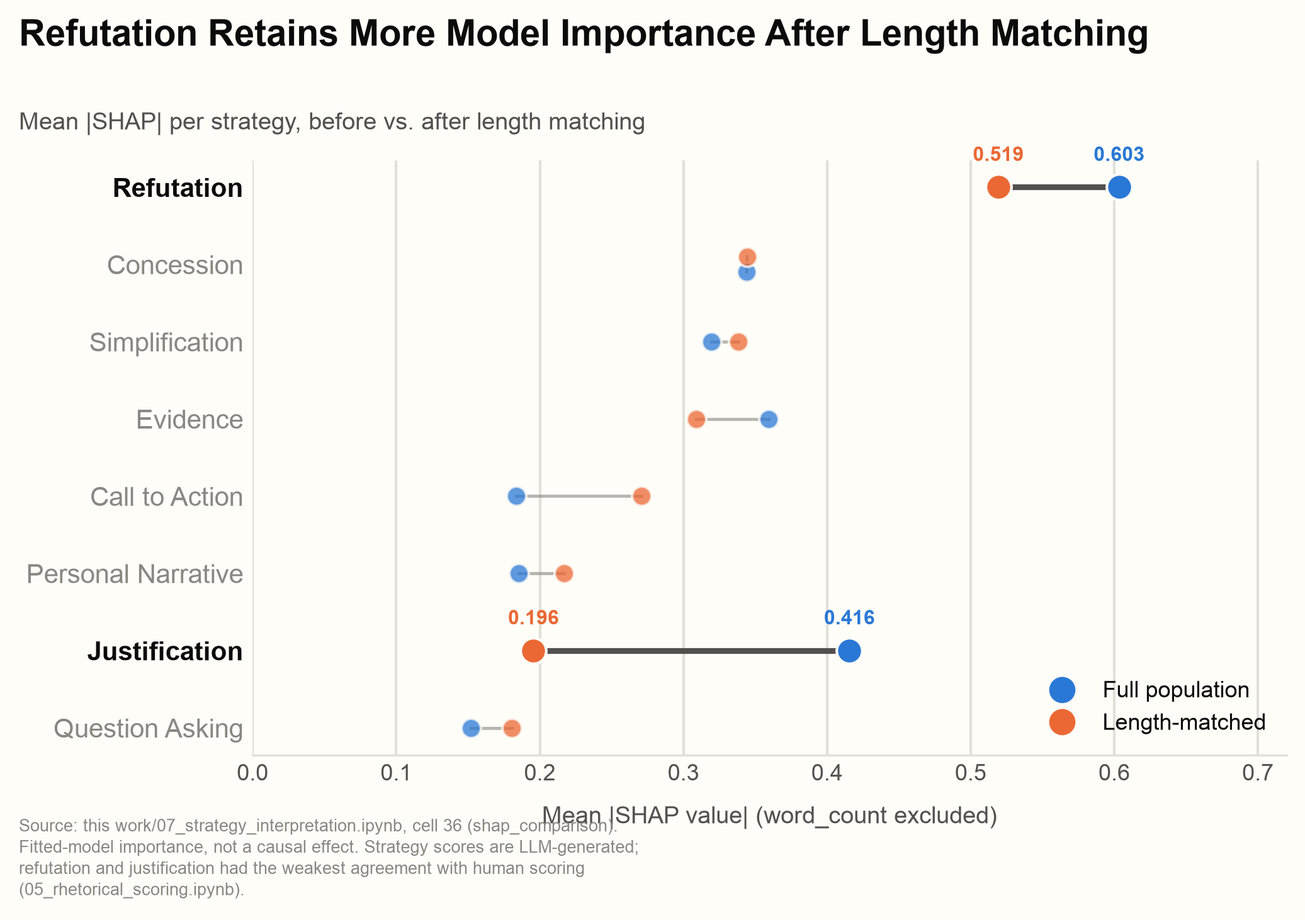
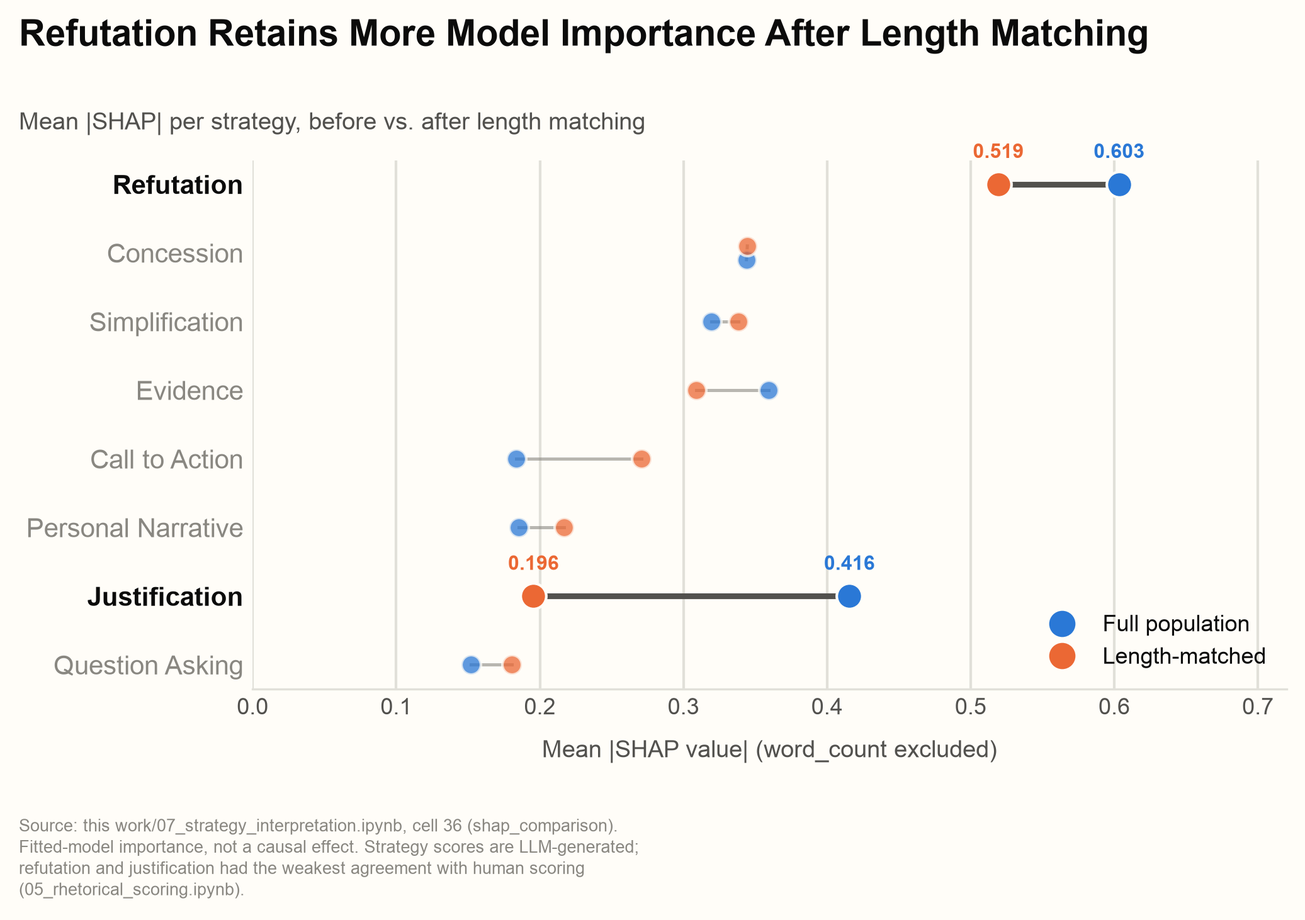
Fix §2.9 WA external-validation methods: construction vs. usage, depth filter, pair/class-balance accuracy
Splits the WA comparison table into corpus-construction facts (Table N) vs.
this project's own analysis choices (Table N+1); corrects the home dataset's
negative-example selection (leaf comments only, not every reply) and its
actually-scored population (2,753/400, not the full 3,971); fixes the WA
heldout pairwise-accuracy count (807 native heldout pairs, 805 after two
pairs lost both sides to unparseable-response drops) and the WA class-balance
explanation (reused losing comments under deduplication, not split
granularity or the drops); adds the §2.9 description of reusing the
nine-column compact model and repeating the §2.8 SHAP/Mann-Whitney
comparison on WA; removes references to the uncommitted wa_quick_experiments
notebook; and removes defensive "you'd think X, but actually Y" framing from
the WA training/evaluation paragraph.

diff --git a/degree_completion/figures/make_figures.py b/degree_completion/figures/make_figures.py
@@ -508,7 +508,10 @@ def figure5():
         _footer(fig, "Fitted-model importance, not a causal effect. Source: 07_strategy_interpretation.ipynb, cell 36.")
 
     top = 0.80 if _cfg()["show_title"] else 0.95
-    fig.subplots_adjust(left=0.22, right=0.95, top=top, bottom=0.17)
+    # Report mode's 4-line verbose footer needs more clearance than presentation's 1-line
+    # trimmed footer, or the x-axis label overlaps the footer's first line.
+    bottom = 0.24 if _cfg()["verbose_footer"] else 0.17
+    fig.subplots_adjust(left=0.22, right=0.95, top=top, bottom=bottom)
     _save(fig, "figure5_refutation_vs_justification_shap")
     plt.close(fig)
 

diff --git a/degree_completion/report_draft/02_METHODS.md b/degree_completion/report_draft/02_METHODS.md
@@ -33,15 +33,24 @@ with a readability measure computed later in the pipeline. This left a final dat
 comments, of which 641 were delta-awarded (16.1%) and 3,330 were not (83.9%).
 
 The target label, `is_convincing`, is derived directly from whether a comment received a delta
-from the original poster. Non-convincing (negative) examples are simply the other replies already
-present in the same threads; no additional filtering or matching was applied to select which
-replies would serve as negative examples. This is a deliberate point of contrast with the external
-validation corpus described in §2.9, whose negative examples are instead selected to be topically
-similar to the corresponding positive example. One structural property of the resulting dataset
-is worth noting here because it bears on later feature-engineering choices: thread size is
-correlated with a thread's apparent convincing rate, since a thread typically yields at most a
-small, roughly fixed number of deltas while the number of non-convincing replies scales with how
-much the thread branches. This is relevant to any analysis that aggregates at the level of the
+from the original poster. Not every comment in a thread becomes a row, and the two classes are
+selected differently. A delta-awarded comment becomes a positive row regardless of where it sits
+in the thread; any of its own descendant replies are discarded. A non-convincing comment becomes a
+negative row only if it is a *leaf* — it has no replies of its own — in the thread tree; a
+non-convincing comment that has further replies underneath it does not itself become a row, only
+its descendant leaves do. (The one exception is a leaf that is itself the parent of a delta-awarded
+comment removed by the rule above: it is excluded rather than added as a negative row, since it was
+never evaluated as a final, unanswered reply.) No topical filtering or matching was applied to
+select which leaf comments would serve as negative examples among those eligible. This is a
+deliberate point of contrast with the external validation corpus described in §2.9, whose negative
+examples are instead selected to be topically similar to the corresponding positive example. One
+structural property of the resulting dataset is worth noting here because it bears on later
+feature-engineering choices: because negative examples are drawn only from leaves while a thread
+typically yields at most a small, roughly fixed number of deltas regardless of its size, the number
+of negative rows per thread scales with how much the thread branches while the number of positive
+rows barely does — so thread size ends up structurally correlated with a thread's apparent
+convincing rate, busier threads showing a lower rate almost by construction, independent of
+anything about persuasion. This is relevant to any analysis that aggregates at the level of the
 original post, not the individual comment, and is revisited where relevant in §2.2.
 
 [FIGURE: `figures/report/figure8_pipeline_diagram.png` — **Figure N.** The project's pipeline as
@@ -475,14 +484,12 @@ claim — that rhetorical-strategy scores carry real signal beyond comment lengt
 proxy for it — mirroring the same test §2.5 applied to `word_count`'s own contribution. It was
 checked using a length-matched sample built specifically for this 2,753-comment population: the
 same decile-bin matching procedure used for `04.3`'s strict decile-bin match (§2.5) was independently re-run
-here, yielding 1,235 comments — coincidentally the same size
-as §2.5's own strict-match sample, despite being built from a different, smaller base population;
-the two samples must not be confused or their figures combined. On this length-matched sample, the
+here, yielding 1,235 comments. On this length-matched sample, the
 strategy-score gain drops from 0.0664 to 0.0557 PR-AUC, an 84% retention — far less erosion than
 `word_count`'s own lift or the engineered pipeline's own lift, both of which collapsed to about 18%
 of their full-dataset values under `04.3`'s strict matching (§2.5). This indicates the
-strategy-score signal is not primarily a proxy for comment length, unlike most other signal
-examined in this project.
+strategy-score signal is not primarily a proxy for comment length, unlike previous signal
+examined.
 
 [FIGURE: `figures/report/figure3_strategy_gain_length_matching.png` — **Figure N.** The
 strategy-score PR-AUC gain reported above, recomputed on the length-matched sample within the
@@ -514,9 +521,9 @@ the outcome. Neither is a causal-effect estimate — both describe observed asso
 reliance, not a demonstrated causal mechanism — and the two measures are not guaranteed to agree
 with one another, nor are they intended as interchangeable. In this project, these two measures
 produce a genuine point of disagreement about which single strategy is most important even on the
-home dataset's full population; this is reported directly, as an aspect of the interpretive findings
-to be resolved (or left open) in Results and Discussion, not papered over by relying on only
-one of the two measures.
+home dataset's full population; this is reported directly, as a genuine methodological tension the
+Discussion chapter treats as unresolved, not papered over by relying on only one of the two
+measures.
 
 **Table N.** Both interpretive measures, full population and length-matched sample, for all eight
 strategies (`word_count`'s own SHAP value — 1.0245 full population, 0.8402 matched — is omitted
@@ -538,15 +545,11 @@ significance.
 One row is worth flagging, not leaving implicit: `personal_narrative`'s rank-biserial effect
 is not significant on the full population but *is* significant, and negative, on the length-matched
 sample (r = −0.0859) — the only strategy whose significance status and sign both shift between the
-two populations. This is reported here as a fact about the data, not interpreted; the interpretive
-discussion belongs in Results/Discussion, not Methods.
+two populations.
 
 [FIGURE: `figures/report/figure5_refutation_vs_justification_shap.png` — **Figure N.** Mean |SHAP|
 value for each of the eight rhetorical strategies, full population versus length-matched sample,
-for the nine-column selected model (`07_strategy_interpretation.ipynb`). A simplified ranked
-comparison, not the raw beeswarm plots, per the legibility concern noted above; `word_count` is
-excluded from the chart, since the comparison is among the eight strategies themselves, not
-against the length confound already established in §2.4.]
+for the nine-column selected model (`07_strategy_interpretation.ipynb`).]
 
 ## 2.9 External Validation on Winning Arguments
 
@@ -560,7 +563,10 @@ substantively comparable to the corresponding winning reply, matched by Jaccard 
 the same thread, whereas the home dataset's non-convincing comments are simply the other,
 unfiltered replies already present in the same threads (§2.1). This difference in how negative
 examples are constructed is a methodologically important point of contrast between the two
-datasets, revisited in the Results and Discussion chapters.
+datasets, revisited in the Results and Discussion chapters. The two datasets also differ in which
+replies are eligible at all: WA's winner/loser pairs are restricted to direct top-level replies to
+the original post (exactly one level below it), whereas the home dataset includes every reply in a
+thread regardless of its nesting depth.
 
 A total of 8,106 comments, spanning 3,051 original posts, were collected and scored on the same
 eight-strategy rubric, using the same scoring infrastructure described in §2.6. Ten comments were
@@ -569,19 +575,27 @@ These were evaluated on WA's own native training and held-out partitions — the
 corpus is distributed with, and the same partition on which its own published benchmark figures are
 computed — comprising 6,584 comments for training and 1,512 for evaluation.
 
-The training and evaluation protocol is stated precisely here because an imprecise description
-would misrepresent what was actually done. The model architecture and training configuration
-already selected on the home dataset (`RobustScaler`, SMOTE oversampling, and XGBoost) were reused
-unchanged on WA, with no new architecture selection, hyperparameter search, or feature-set tuning
-performed using WA data. However, a new model instance was then fit on WA's own native training
-split and evaluated on WA's own native held-out split. This procedure — reusing a previously
-selected modeling configuration, but fitting new model parameters on the new dataset's own training
-data — is a transfer of the modeling procedure, not a zero-shot evaluation of the model originally
-fitted on the home dataset, and it should not be described as zero-shot transfer or as applying a
-frozen model to WA. A separate, exploratory notebook does evaluate genuine zero-shot transfer (the
-home-dataset-trained model applied directly to WA with no refitting at all); that analysis,
-together with two other exploratory checks in the same notebook, is excluded from the scope of this
-report.
+The model architecture and training configuration already selected on the home dataset
+(`RobustScaler`, SMOTE oversampling, and XGBoost) were reused unchanged on WA, with no new
+architecture selection, hyperparameter search, or feature-set tuning performed using WA data. A new
+model instance was then fit on WA's own native training split and evaluated on WA's own native
+held-out split. This is a transfer of the modeling procedure — reusing a previously selected
+configuration but fitting new parameters on the new dataset's own training data. Because WA was
+scored only on the eight-strategy rubric described above, not the full engineered-feature pipeline
+from §2.2, the feature set used for this fit is the nine-column model (the eight strategy scores
+plus `word_count`) identified in §2.7 as the home dataset's own strongest-performing combination,
+not the larger 237-column representation. A smaller set of narrower feature-set configurations
+(`word_count` alone, the eight strategy scores alone, and other subsets of the nine columns) was
+also evaluated on WA using the same order-robust procedure as §2.7, to check whether the
+representation selected on the home dataset is also the strongest-performing one on an
+independently constructed dataset.
+
+The same two interpretive analyses described in §2.8 — a SHAP tree-explainer analysis and a
+Mann–Whitney rank-biserial effect-size comparison, each computed on the full scored population and
+on a length-matched sample — were repeated on WA, fitted to this same nine-column model, to compare
+which individual strategies the two analyses rank as most important on WA against the ranking
+already reported for the home dataset in §2.8. The resulting cross-dataset strategy-importance
+comparison is reported in the Results chapter, not here.
 
 Because WA's class balance and negative-sampling procedure differ substantially from the home
 dataset's, raw PR-AUC values are not directly comparable between the two datasets without reference
@@ -591,8 +605,12 @@ baselines (roughly 0.20–0.24 depending on the specific fold) reported for the 
 elsewhere in this chapter. Pairwise accuracy — the proportion of winner/loser pairs for which the
 model scores the actual winning reply higher than the actual losing reply — is also reported for
 WA, since it is the metric reported in the published literature this analysis is compared against
-(Labruna et al., 2026). WA's own pairing procedure yields 4,263 winner/loser pairs overall, with 805
-of them falling in the held-out split used to compute this metric.
+(Labruna et al., 2026). WA's own pairing procedure yields 4,263 winner/loser pairs overall, of which 807 fall in the
+held-out split — the same heldout pair count reported in the published literature. Of the ten
+comments dropped earlier for an unparseable LLM response, four fall in the held-out split, and
+each belongs to a different pair whose other side was also dropped, removing two complete pairs
+from the held-out split; the remaining 805 held-out pairs, both sides scored, are used to compute
+this metric.
 
 One limitation of this external validation is stated directly here, because it bears on how the
 WA results should be read, not just a matter for the Discussion chapter: this
@@ -603,17 +621,27 @@ extent documented for the home dataset in §2.7. No length-controlled ablation c
 described there was performed on WA; establishing that stronger, more specific claim would require
 such an analysis, which falls outside the scope of the present external-validation check.
 
-**Table N.** The two datasets' construction, side by side — the negative-example row is the single
-most consequential difference between them, discussed above.
+**Table N.** How each dataset's underlying corpus was constructed, side by side — the
+negative-example row is the single most consequential difference between them, discussed above.
 
 | | Home dataset | Winning Arguments (WA) |
 |---|---|---|
 | Source | r/changemyview, collected directly via the Reddit API (PRAW) | r/changemyview-derived, accessed via ConvoKit (Tan, Niculae, Danescu-Niculescu-Mizil, and Lee, 2016) |
-| Unit of construction | Comment-level — every reply in a thread is its own labeled row | Winner/loser pair-level — each original post contributes one matched pair |
-| Positive (convincing) examples | Comment awarded a delta | Reply labeled the pair's winner |
-| Negative (non-convincing) examples | All other replies already present in the same thread, unfiltered | The single reply most topically similar (Jaccard similarity) to the winner, among replies that did not win |
-| Size | 3,971 comments, 425 original posts | 8,096 scored comments (8,106 collected, 10 dropped for unparseable LLM responses), 3,051 original posts |
-| Class balance | 641 convincing (16.1%) | Near-balanced by construction (~52% positive — see no-skill baseline below) |
-| Train/test split | This project's own thread-grouped 80/20 split: 3,262 train / 709 test | WA's native distributed split (not re-split by this project): 6,584 train / 1,512 heldout |
-| No-skill PR-AUC baseline | ≈0.20–0.24, depending on the specific fold | 0.5291 (heldout fold's own positive rate) |
-| Paired design | No — comments are evaluated individually, not as pairs | Yes — 4,263 winner/loser pairs total, 805 in the heldout split |
+| Unit of construction | Comment-level — not every reply becomes a row (see the two rows below) | Winner/loser pair-level — each winning reply is matched with one topically similar losing reply; an original post can contribute more than one pair |
+| Reply depth eligible | Any reply in the thread, regardless of nesting depth | Direct top-level replies to the original post only (exactly one level below it) — matching the original WA paper's own framing of a pair as two arguments made directly in response to the same post |
+| Positive (convincing) examples | Comment awarded a delta, regardless of its position in the thread; its own descendant replies are discarded | Comment awarded a delta (therefore marked as the pair's winning reply) |
+| Negative (non-convincing) examples | Only thread-ending *leaf* comments (no replies of their own) among the non-convincing comments; a non-convincing comment with further replies underneath it is excluded entirely, not included as its own row | The single reply most topically similar (Jaccard similarity) to the winner, among replies that did not win |
+| Class balance | 641 convincing (16.1%) | 4,240 winning comments (52.3%), 3,866 losing comments — close to, but not exactly, balanced. Pairs themselves are exactly 1:1 by construction, but a losing reply can be the closest topical match for more than one winning pair and is stored once rather than once per pair (338 of 4,263 losing slots are such reused comments, versus only 22 of 4,263 winning slots), so deduplicating pairs down to individual comments leaves more unique winning comments than unique losing ones |
+| Paired design | No — comments are evaluated individually, not as pairs | Yes — 4,263 winner/loser pairs total |
+
+**Table N+1.** How this project used each dataset for the external-validation check described in
+this section — these are this project's own analysis choices, not properties of either corpus as
+originally constructed.
+
+| | Home dataset | Winning Arguments (WA) |
+|---|---|---|
+| Comments/posts scored | 2,753 comments, 400 original posts (§2.6 scored subset, not the full 3,971-comment dataset) | 8,096 scored comments (8,106 collected, 10 dropped for unparseable LLM responses), 3,051 original posts |
+| Train/test split | This project's own thread-grouped 80/20 split of the 2,753-comment scored population (§2.7): 2,161 train / 592 test — not the full-dataset 3,262/709 split used in §2.3–§2.4 | WA's native distributed split (not re-split by this project): 6,584 train / 1,512 heldout |
+| Positive rate actually scored/evaluated | 23.3% (641 of 2,753 — the §2.6 scored subset's own rate, not the full dataset's 16.1%) | 52.9% in the heldout split used here, close to but not identical to the 52.3% rate across the whole WA corpus (Table N) — this fold-to-fold variation (train alone is 52.2%) reflects how the reused losing comments happen to fall across original posts, not an effect of this project's train/heldout split or the ten dropped comments |
+| No-skill PR-AUC baseline (this project's model) | 0.2382 (the 592-comment test fold's own positive rate, §2.7) | 0.5291 (heldout fold's own positive rate) |
+| Pairs evaluated for pairwise accuracy | N/A — not a paired evaluation | 805 of the native 807 held-out pairs — 2 pairs lost both sides to the unparseable-response drop |

diff --git a/degree_completion/PROGRESS.md b/degree_completion/PROGRESS.md
@@ -118,8 +118,11 @@ Check a task only when its stated deliverable is complete. Dates are targets, no
 
 - **Drafted the report's Methods chapter (2026-10-20/21) — covers both Phase 2's "Methodology, part 1" and "part 2" in one pass.** New `degree_completion/report_draft/02_METHODS.md` (9 subsections: data collection/annotation, feature engineering, model training/evaluation, the baseline investigation and length confound, length-controlled analysis, rhetorical-strategy scoring, strategy ablation, strategy interpretation, external validation on Winning Arguments) and `METHODS_REVIEW_NOTES.md` (verification log, figure/table placeholders with notebook sources, a subsection-to-cell mapping). Every claim cell-verified directly against the twelve source notebooks via two parallel verification passes, not carried forward from planning-document prose unchecked — this caught and fixed one real documentation error (Figure 1's chart had been labeling the selected engineered pipeline "229 features"; the actual selected model is 239 columns, not 229 — fixed in `make_figures.py`/the chart, feature count dropped from the chart label entirely as the simplest correct fix) and one notebook-level inconsistency (`06_strategy_ablation.ipynb`'s column-order sensitivity demo used 6 orderings where every other order-robust figure in the project uses 8 — fixed directly in the notebook, re-executed, and propagated to all 9 downstream documents that quoted the old 0.0422 figure). A second, separately-flagged discrepancy (`06`'s ablation baseline omits the untrusted-derived columns that `04.1`/`04.2` actually selected) was investigated and deliberately left as-is at your explicit instruction — see `METHODS_REVIEW_NOTES.md` §1 for the full record. You are now reading the chapter before we proceed to Results.
 - **Methods chapter's limitations list carries forward to Discussion — tracked here so it isn't lost.** `METHODS_REVIEW_NOTES.md` §4 lists five methodological limitations surfaced while drafting Methods, flagged there specifically because they belong in the Discussion chapter once that's drafted, not in Methods itself: the LLM-scoring reliability ceiling concentrated on refutation/justification; most point-estimate comparisons having overlapping confidence intervals (only the word-count discovery and the strategy-ablation gain are decisive); the XGBoost+SMOTE column-order sensitivity's implication for how much to trust any single point estimate; the WA validation's partial (group-level, not strategy-specific) replication; and the single-subreddit/English-only scope. **When Discussion is drafted, start from that list** rather than re-deriving limitations from scratch.
+- **§2.8's SHAP-vs-Mann-Whitney phrasing is provisional, pending Discussion — tracked here so it isn't lost (2026-11-04).** `02_METHODS.md` §2.8 reports that SHAP and the Mann-Whitney rank-biserial effect size disagree about which single strategy is most important even on the home dataset's full population (SHAP: `refutation`; rank-biserial: `justification`, r=0.358). The chapter currently frames this as a tension Discussion will treat as **unresolved** — a placeholder choice, not a final decision; Discussion could instead take an explicit stance on which measure to trust more. Full context and the exact sentence to revisit: `METHODS_REVIEW_NOTES.md` §10. **When Discussion is drafted, decide this and update `02_METHODS.md` §2.8's wording to match if Discussion ends up resolving it after all.**
+- **`personal_narrative`'s significance/sign flip under length-matching needs interpretation in Discussion (2026-11-04).** §2.8 reports this as a fact only, with no interpretation: its rank-biserial effect is non-significant on the full population but significant and negative on the length-matched sample (r=−0.0859) — the only strategy whose significance status and sign both shift between the two populations. **When Discussion is drafted, address what this flip might mean.**
+- **§2.9's WA-vs-home negative-example-construction contrast needs to actually be revisited in Results/Discussion, not just promised (2026-11-04).** §2.9 states that WA's deliberately topic-matched losing replies vs. the home dataset's simply-unfiltered non-convincing replies is "a methodologically important point of contrast... revisited in the Results and Discussion chapters." This is the same underlying construction difference `METHODS_REVIEW_NOTES.md` §4 already flags as the untested hypothesis for why WA's dominant-strategy finding doesn't replicate (differing negative-sampling procedures) — same point, two different framings in Methods. **When Discussion is drafted, make sure this contrast is actually addressed there.**
 
-**Next action:** You are reviewing `02_METHODS.md` before we proceed. After your review: Results chapter (per `REPORT_OUTLINE.md` §4, cross-referencing `RESULTS_SHORTLIST.md` rather than re-deriving numbers); then Discussion (carrying forward the limitations list above, plus the Na & DeDeo comparison once you've looked into that paper further); then the References chapter (author-year style, tracked in `READINESS_CHECKLIST.md`). Separately, still open: Phase 4 rehearsal (timed run-throughs, defense simulation, Q&A prep — unscheduled against the Oct 27–Nov 3 target dates; `RESEARCH_GUARDRAILS.md`'s examiner-question list and `PRESENTATION_STORYLINE.md`'s own Q&A table are existing prep material).
+**Next action:** You are reviewing `02_METHODS.md` before we proceed. After your review: Results chapter (per `REPORT_OUTLINE.md` §4, cross-referencing `RESULTS_SHORTLIST.md` rather than re-deriving numbers); then Discussion (carrying forward the limitations list above, the §2.8 SHAP-vs-Mann-Whitney phrasing decision noted above, plus the Na & DeDeo comparison once you've looked into that paper further); then the References chapter (author-year style, tracked in `READINESS_CHECKLIST.md`). Separately, still open: Phase 4 rehearsal (timed run-throughs, defense simulation, Q&A prep — unscheduled against the Oct 27–Nov 3 target dates; `RESEARCH_GUARDRAILS.md`'s examiner-question list and `PRESENTATION_STORYLINE.md`'s own Q&A table are existing prep material).
 
 **Closed since the last update (2026-10-14):**
 - **Dataset composition (641/16.1%) independently verified.** Read `results/02_comments_df_base.csv.zip` directly: 3,971 rows, 641 with `is_convincing=1`, 16.1% — confirms the figure every document already stated, now as a freshly-checked fact rather than a carried-forward claim.

diff --git a/degree_completion/report_draft/METHODS_REVIEW_NOTES.md b/degree_completion/report_draft/METHODS_REVIEW_NOTES.md
@@ -212,8 +212,9 @@ notebook, Methods chapter, and every presentation/planning document agree on 0.0
 - Single subreddit, single platform, English-only dataset; thread size structurally correlates with
   a thread's apparent convincing rate (noted in §2.1).
 - `refutation_reannotation/` was not referenced anywhere in this chapter, consistent with its
-  out-of-scope status. `wa_quick_experiments.ipynb` was referenced only to explain why its
-  zero-shot finding is excluded from this report's scope, not to report any of its results.
+  out-of-scope status. `wa_quick_experiments.ipynb` is uncommitted and is no longer referenced in
+  §2.9 (removed 2026-11-04); it was never part of the committed project, so it should not be cited
+  as a report artifact.
 
 ## 5. Suggested figures and tables, with notebook sources
 
@@ -316,3 +317,16 @@ are still staged for the not-yet-drafted Results chapter and currently have no o
 those caveats; drop the pointer from each once its caveats are folded into Results prose the same
 way Methods absorbed 1/3/4/5's. All nine report-mode PNG/SVGs regenerated; no numeric values
 changed, footer text only.
+
+## 10. §2.8 SHAP-vs-Mann-Whitney disagreement — phrasing pending Discussion, not yet final (2026-11-04)
+
+§2.8 reports a genuine disagreement between SHAP and the Mann-Whitney rank-biserial effect size
+over which single strategy is most important, even on the home dataset's full population (SHAP:
+`refutation`; rank-biserial: `justification`, r=0.358). The chapter currently states this will be
+treated **as an unresolved methodological tension** in Discussion — a provisional choice, not a
+final one: you have not yet decided whether Discussion will instead take an explicit stance on
+which measure to trust more (or why). **Action needed: once the Discussion chapter is drafted,
+revisit `02_METHODS.md` §2.8's exact wording** (currently: "...this is reported directly, as a
+genuine methodological tension the Discussion chapter treats as unresolved, not papered over by
+relying on only one of the two measures.") and change it back to an explicit-resolution framing if
+Discussion ends up taking a side after all.
